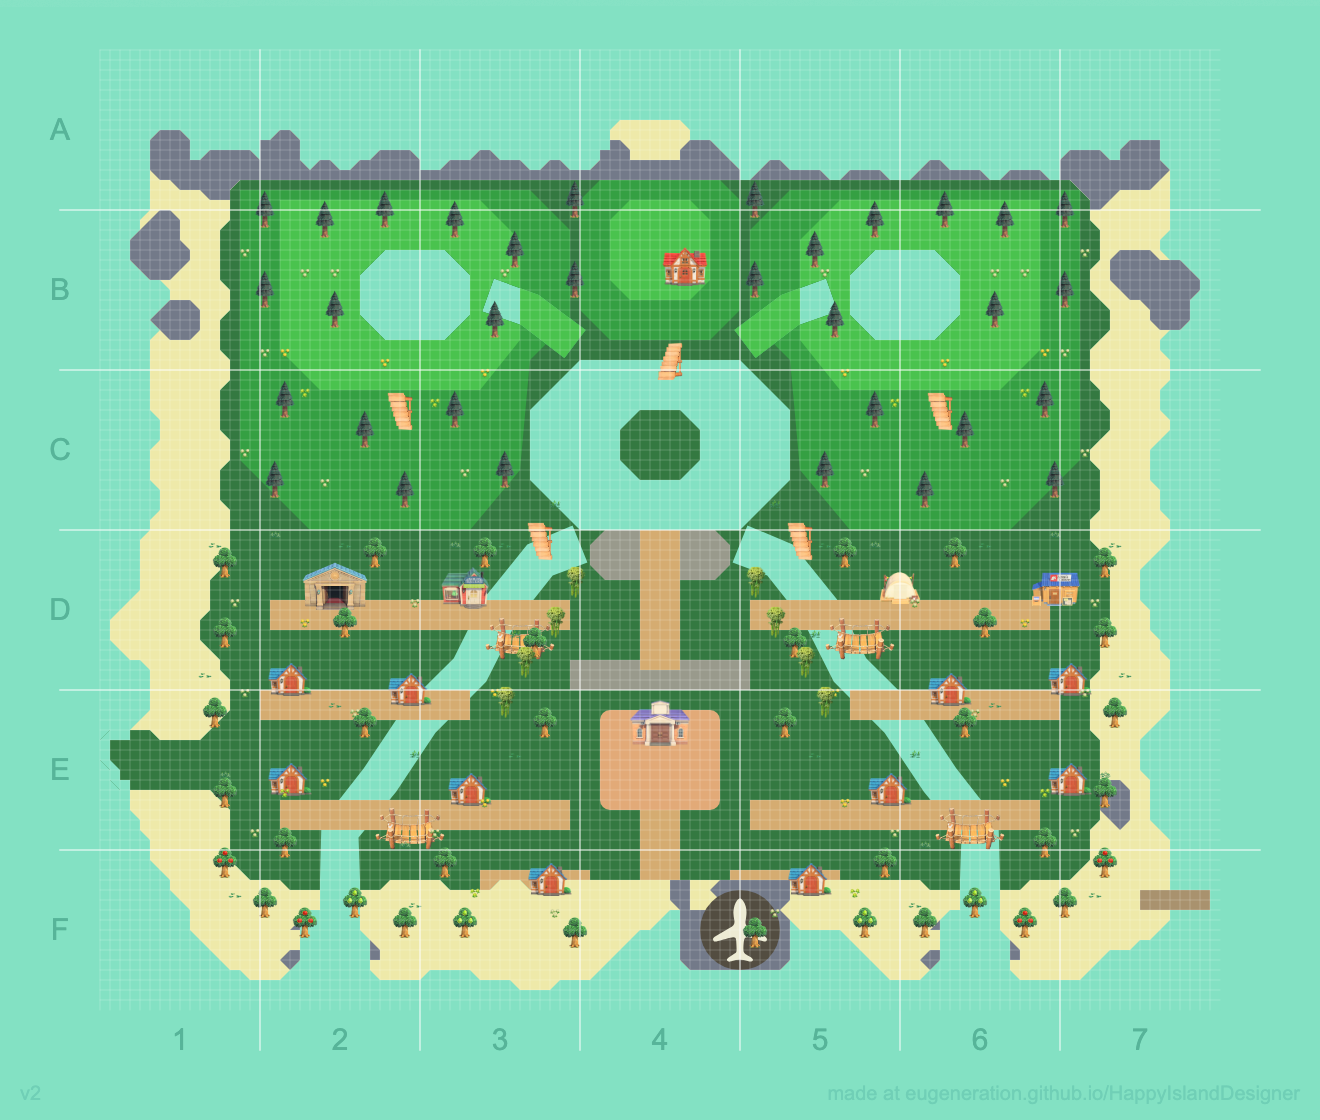
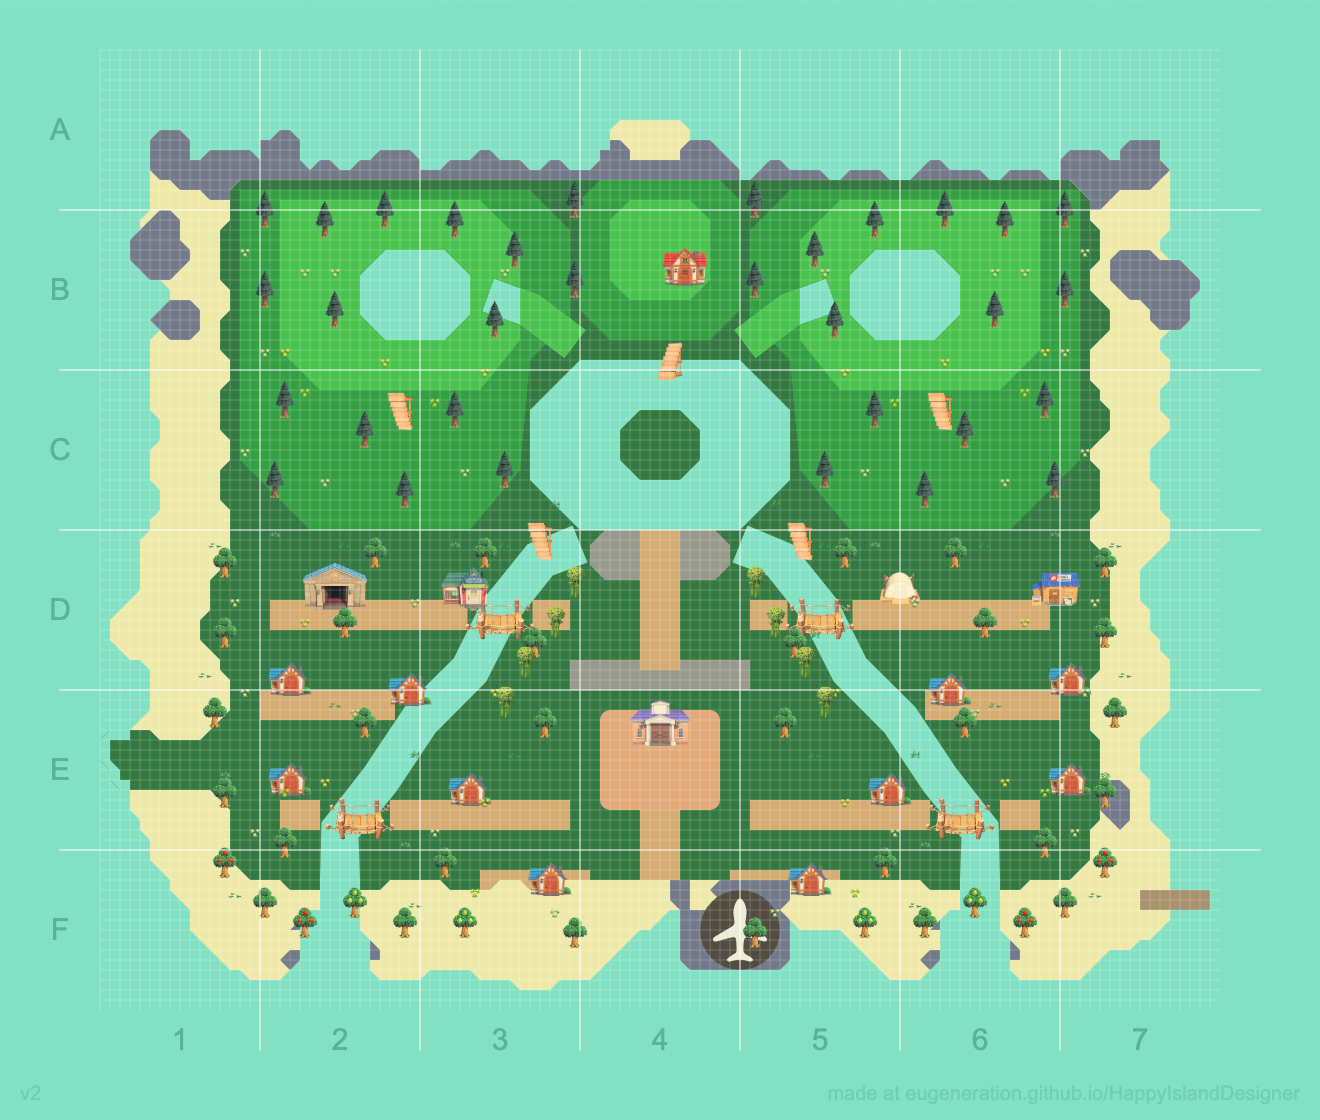
fix: keep island paths out of waterways

diff --git a/AGENTS.md b/AGENTS.md
@@ -14,7 +14,7 @@
 
 《集合啦！动物森友会》中，机场、服务处及广场、河流入海口、码头、海滩与海岸线、栈桥、半岛、秘密海滩和沿岸礁石不能通过岛屿创作家移动或改造。新方案必须原位保留这些元素。机场与河口在当前 JSON 中没有独立坐标字段，因此必须继承原始边界和河口端点，并通过加载渲染后的地图与原图对比确认；禁止猜测位置。内部河道、池塘和 `level1` 至 `level3` 地形可以重塑，但河流仍须连回原河口。其他住宅、商店、博物馆与露营地可重新规划。
 
-设计时先锁定机场到服务处的入口视线，再划分住宅、商业、自然和活动区域。预留连续步道、建筑占地与操作空间；桥梁应跨越有效河道，坡道只连接相邻高度，避免无法步行到达的孤岛或高地。交付新岛屿前必须校验 JSON 可解析、固定对象坐标未变、河口与海岸未变，并在应用中加载检查通行性和设施重叠。
+设计时先锁定机场到服务处的入口视线，再划分住宅、商业、自然和活动区域。预留连续步道、建筑占地与操作空间；`pathDirt`、`pathSand`、`pathStone`、`pathBrick` 必须完全位于 `level1` 陆地内，遇到河流或湖泊时在岸边断开，仅桥梁可以跨越水面。桥梁应跨越有效河道，坡道只连接相邻高度，避免无法步行到达的孤岛或高地。交付新岛屿前必须运行设计校验，确认 JSON 可解析、所有地板位于陆地、固定对象坐标未变、河口与海岸未变，并在导出图中检查通行性和设施重叠。
 
 ## Build, Test, and Development Commands
 
